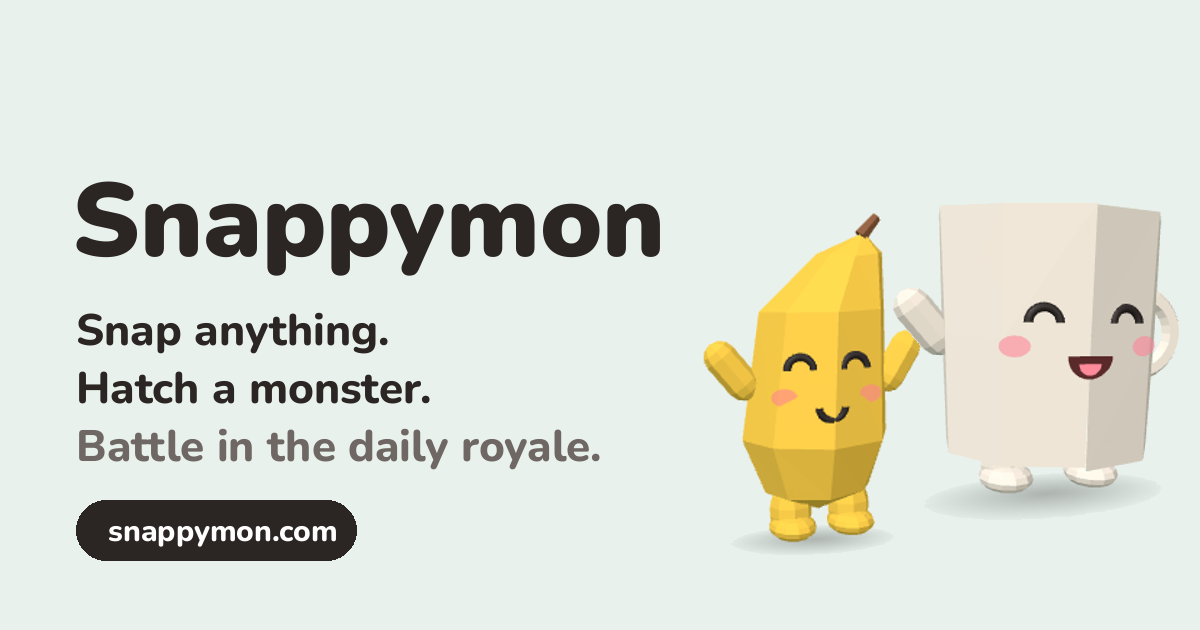
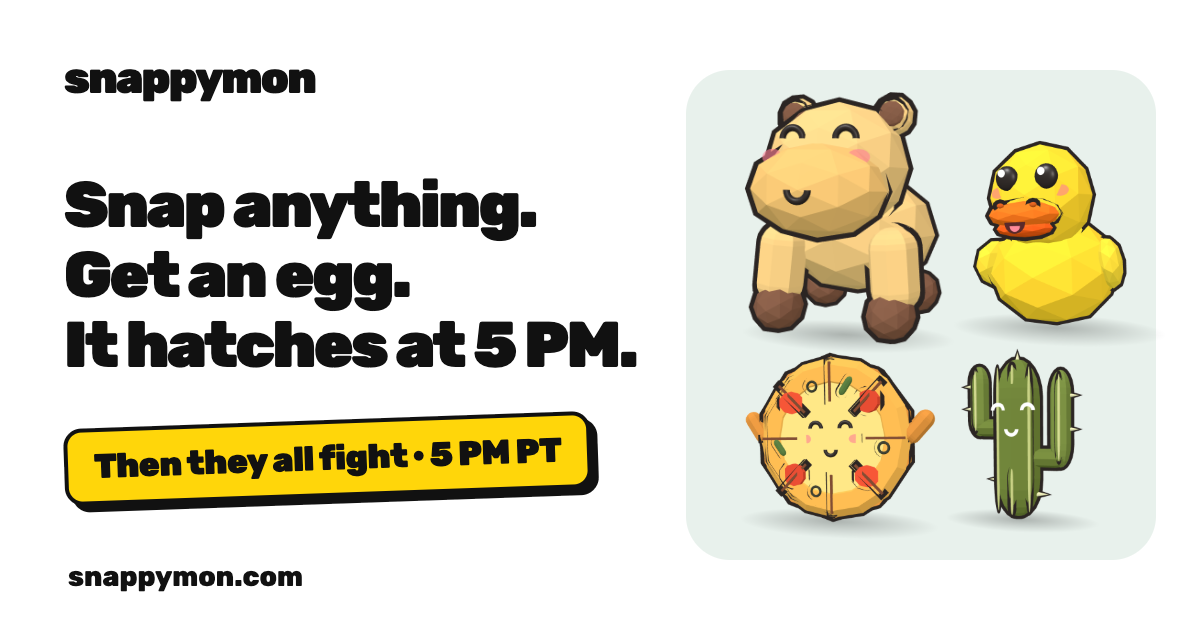
Vorschaubild und Beschreibung für geteilte Links auf den Ei-Ablauf gebracht

diff --git a/public/index.html b/public/index.html
@@ -5,22 +5,22 @@
     <meta httpEquiv="X-UA-Compatible" content="IE=edge" />
     <meta name="viewport" content="width=device-width, initial-scale=1, viewport-fit=cover, shrink-to-fit=no" />
     <title>%WEB_TITLE%</title>
-    <meta name="description" content="Snap anything. Hatch a monster. Battle in the daily royale." />
+    <meta name="description" content="Snap anything and get an egg. At 5 PM Pacific every egg hatches and the monsters fight. No app, no signup." />
     <meta name="theme-color" content="#ffffff" />
     <meta name="apple-mobile-web-app-capable" content="yes" />
     <meta name="apple-mobile-web-app-title" content="Snappymon" />
     <meta name="apple-mobile-web-app-status-bar-style" content="default" />
     <meta property="og:type" content="website" />
     <meta property="og:site_name" content="Snappymon" />
-    <meta property="og:title" content="Snappymon" />
-    <meta property="og:description" content="Snap anything. Hatch a monster. Battle in the daily royale." />
+    <meta property="og:title" content="Snappymon: snap anything, get an egg" />
+    <meta property="og:description" content="Snap anything and get an egg. At 5 PM Pacific every egg hatches and the monsters fight. No app, no signup." />
     <meta property="og:url" content="https://snappymon.com" />
     <meta property="og:image" content="https://snappymon.com/og.png" />
     <meta property="og:image:width" content="1200" />
     <meta property="og:image:height" content="630" />
     <meta name="twitter:card" content="summary_large_image" />
-    <meta name="twitter:title" content="Snappymon" />
-    <meta name="twitter:description" content="Snap anything. Hatch a monster. Battle in the daily royale." />
+    <meta name="twitter:title" content="Snappymon: snap anything, get an egg" />
+    <meta name="twitter:description" content="Snap anything and get an egg. At 5 PM Pacific every egg hatches and the monsters fight. No app, no signup." />
     <meta name="twitter:image" content="https://snappymon.com/og.png" />
     <style id="expo-reset">
       html,
